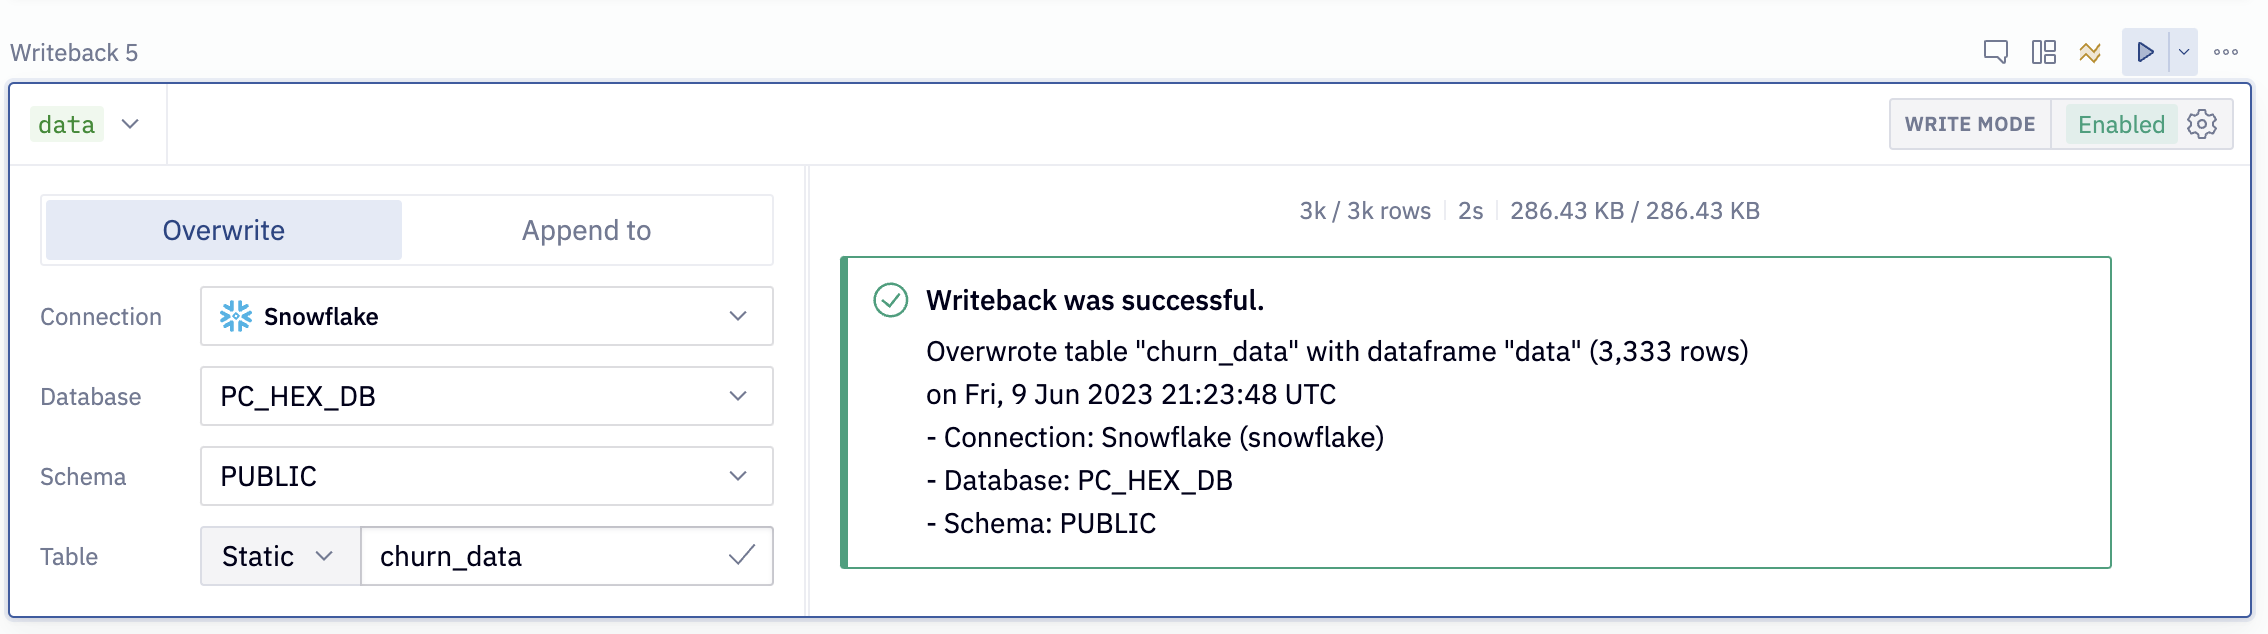
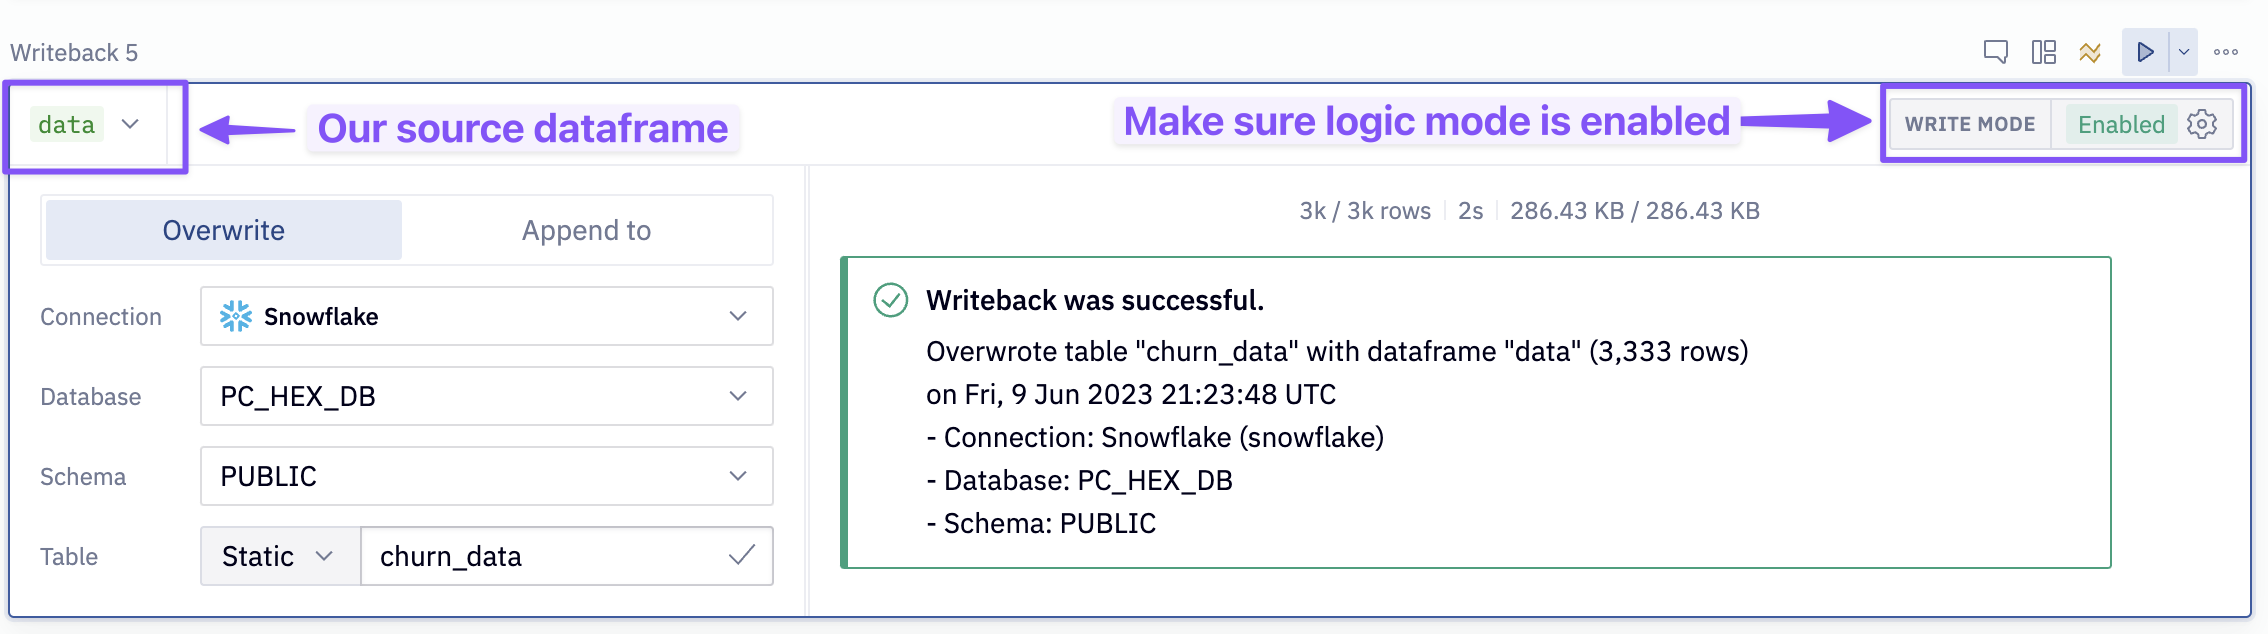
small edits

diff --git a/site/sfguides/src/churn_modeling_in_hex/churn_modeling_in_hex.md b/site/sfguides/src/churn_modeling_in_hex/churn_modeling_in_hex.md
@@ -25,7 +25,7 @@ In this Quickstart guide, we will play the role of a data scientist at a telecom
 ### What You'll Learn
 
 - How to import/export data between Hex and Snowflake
-- How to train a Random Forest model and deploy to Snowflake using UDFs
+- How to train a Random Forest with Snowpark ML model 
 - How to visualize the predicted results from the forecasting model
 - How to convert a Hex project into an interactive web app and make predictions on new users
 
@@ -80,23 +80,23 @@ Duration: 8
 
 To predict customer churn, we first need data to train our model. In the SQL cell labeled **Pull churn results** assign `[Demo] Hex public data` as the data connection source and run the cell.
 
-```SQL
-select * from "DEMO_DATA"."DEMOS"."TELECOM_CHURN"
-```
+![](assets/pull_data.png)
 
-At the bottom of this cell, you will see a green output variable labeled `dataframe`. This is a Pandas dataframe, and we are going to write it back into our `Snowflake` data connection. To do so, input the following configurations to the writeback cell (labeled: **Writeback to snowflake)**
+At the bottom of this cell, you will see a green output variable labeled `data`. This is a Pandas dataframe, and we are going to write it back into our `Snowflake` data connection. To do so, input the following configurations to the writeback cell (labeled: **Writeback to snowflake)**
 
 ![](assets/writeback.png)
 
-- **Source**: dataframe
-- **Connection**: Snowflake
-- **Database**: PC_HEX_DB
-- **Schema**: Public
-- **Table**: _Static_ and name it CHURN
+- **Source**: `data`
+- **Connection**: `Snowflake`
+- **Database**: `PC_HEX_DB`
+- **Schema**: `Public`
+- **Table**: _Static_ and name it `CHURN_DATA`
 
 Once the config is set, enable `Logic session` as the writeback mode (in the upper right of the cell) and run the cell.
 
-In the SQL cell labeled **Churn data**, change the data source to `Snowflake` and execute the cell. You will see a green output variable at the bottom. Double-click on it and rename it to `data`.
+In the SQL cell labeled **Churn data**, change the data source to `Snowflake` and execute the cell. You will see a green output variable named data at the bottom. 
+
+![](assets/sf_churn.png)
 
 ## Data preparation
 
@@ -139,7 +139,20 @@ We take a closer look at this by visualizing in a chart cell.
 ![](assets/imbal.png)
 As you can see, the majority of observations are in support of user who haven’t yet churned. Specifically, 85% of user haven’t churned while the other 15% has. In machine learning, a class imbalance such as this can cause issues when evaluating the model since it’s not getting equal attention from each class. In the next section we will go over a method to combat the imbalance problem.
 
-## Model training
+## Establishing a Snowpark connection
+
+Duration: 2
+Now, we can connect to our Snowflake connection that we imported earlier. To do this head over to the data sources tab on the left control panel to find your Snowflake connection. If you hover your mouse over the connection and click on the dropdown next to the `query` button and select `get Snowpark session`. This will create a new cell for us with all the code needed to spin up a Snowpark session.
+
+![](assets/snowpark.gif)
+
+To ensure we don't run into any problems down the line, paste in the following line at the bottom of the cell.
+
+```python
+session.use_schema("PC_HEX_DB.PUBLIC")
+```
+
+## Feature engineering
 
 Duration: 10
 In order to predict the churn outcomes for customers not in our dataset, we’ll need to train a model that can identify users who are at risk of churning from the history of users who have. However, it was mentioned in the last section that there is an imbalance in the class distribution that will cause problems for our model if not handled properly. One way to handle this is to create new data points such that the classes balance out. This is also known as upsampling.
@@ -169,16 +182,57 @@ dataset = session.create_dataframe(snowpark_data)
 
 Now that we have balanced our dataset, we can prepare our model for training. The model we have chosen for this project is a Random Forest classifier. A random forest creates an ensemble of smaller models that all make predictions on the same data. The prediction with the most votes is the prediction the model chooses.
 
-Rather than use a typical random forest object, we'll make use of Snowflake ML. Snowflake ML offers capabilities for data science and machine learning tasks within Snowflake. It provides estimators and transformers compatible with scikit-learn and xgboost, allowing users to build and train ML models directly on Snowflake data. This eliminates the need to move data or use stored procedures. It uses wrappers around scikit-learn and xgboost classes for training and inference, ensuring optimized performance and security within Snowflake.
+Rather than use a typical random forest object, we'll make use of Snowflake ML. Snowflake ML offers capabilities for data science and machine learning tasks within Snowflake. It provides estimators and transformers compatible with scikit-learn and xgboost, allowing users to build and train ML models directly on Snowflake data. This eliminates the need to move data or use stored procedures. It uses wrappers around scikit-learn and xgboost classes for training and inference, ensuring optimized performance and security within Snowflake. 
+
+In the cell labeled `Snowflake ML model preprocessing` we'll import Snowpark ML to further process our dataset to prepare it for our model.
+
+```python
+import snowflake.ml.modeling.preprocessing as pp 
+from snowflake.ml.modeling.ensemble import RandomForestClassifier
+from sklearn.model_selection import train_test_split  
+
+# Get the list of column names from the dataset
+feature_names_input = [c for c in dataset.columns if c != '"Churn"' and c != "INDEX"]
+
+
+# Initialize a StandardScaler object with input and output column names
+scaler = pp.StandardScaler(
+    input_cols=feature_names_input, 
+    output_cols=feature_names_input
+)
+
+# Fit the scaler to the dataset
+scaler.fit(dataset)  
+
+# Transform the dataset using the fitted scaler
+scaled_features = scaler.transform(dataset)  
+
+# Define the target variable (label) column name
+label = ['"Churn"']  
+
+# Define the output column name for the predicted label
+output_label = ["predicted_churn"]
+
+# Split the scaled_features dataset into training and testing sets with an 80/20 ratio
+training, testing = scaled_features.random_split(weights=[0.8, 0.2], seed=111)
+```
+
+
 
 ### Accepting Anaconda terms
 
-But before we can train the model, we'll need to accept the Anaconda terms and conditions.
-To do this, navigate back to Snowflake and click on your username in the top left corner. You'll see a section that will allow you to switch to the `ORGADMIN` role. Once switched over, navigate to the `Admin` tab and select `Billing & Terms`. From here, you will see a section that will allow you to accept the anaconda terms and conditions. Once this is done, you can head back over to Hex and run the cell that defines our UDTF.
+Before we can train the model, we'll need to accept the Anaconda terms and conditions.
+To do this, navigate back to Snowflake and click on your username in the top left corner. You'll see a section that will allow you to switch to the `ORGADMIN` role. Once switched over, navigate to the `Admin` tab and select `Billing & Terms`. From here, you will see a section that will allow you to accept the anaconda terms and conditions. Once this is done, you can head back over to Hex and run the cell that trains our model.
 
 ![](assets/vhol-accept-terms.gif)
 
+## Model training
+
+Duration: 5
+
 Now we can train our model. Run the cell labeled `Snowflake ML model training`.
+
+![](assets/train.png)
 
 In the next section, we will look at how well our model performed as well as which features played the most important role when predicting the churn outcome.
 
@@ -200,6 +254,8 @@ recall = round(recall_score(actual, predictions), 3)
 ```
 
 This will calculate an accuracy and recall score for us which we'll display in a [single value cell](https://learn.hex.tech/docs/logic-cell-types/display-cells/single-value-cells#single-value-cell-configuration).
+
+![](assets/scores.png)
 
 ### Feature importance
 
